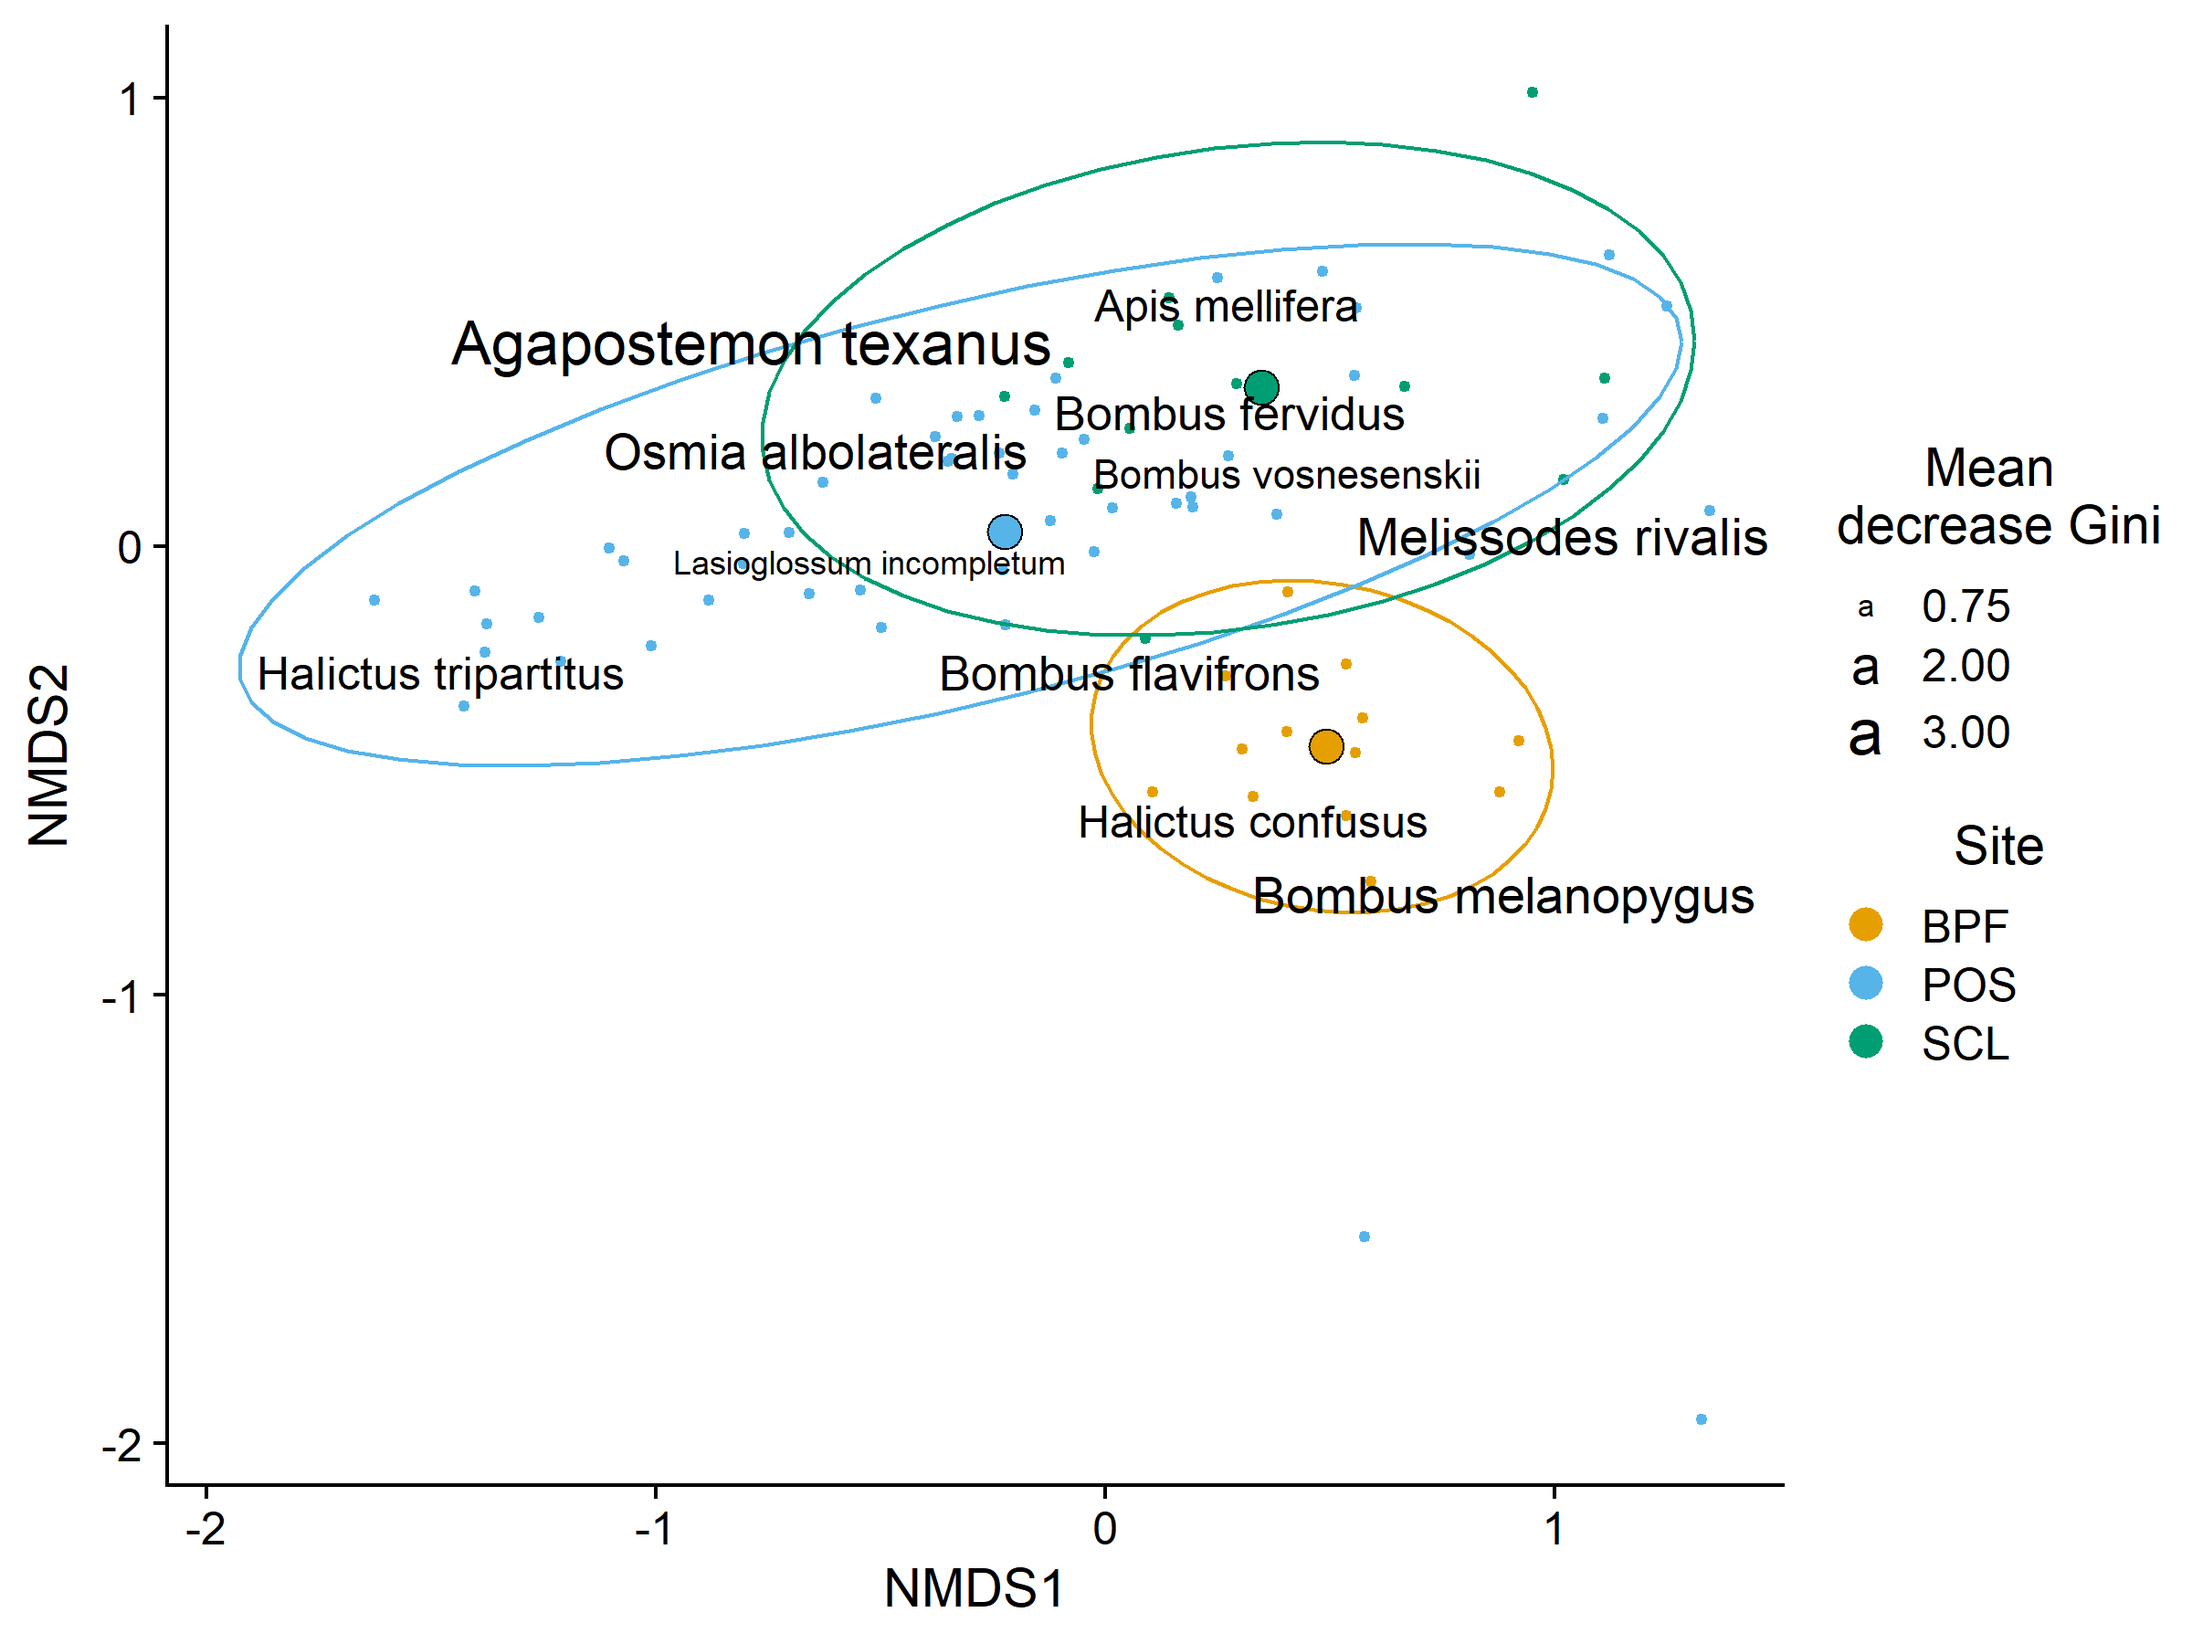
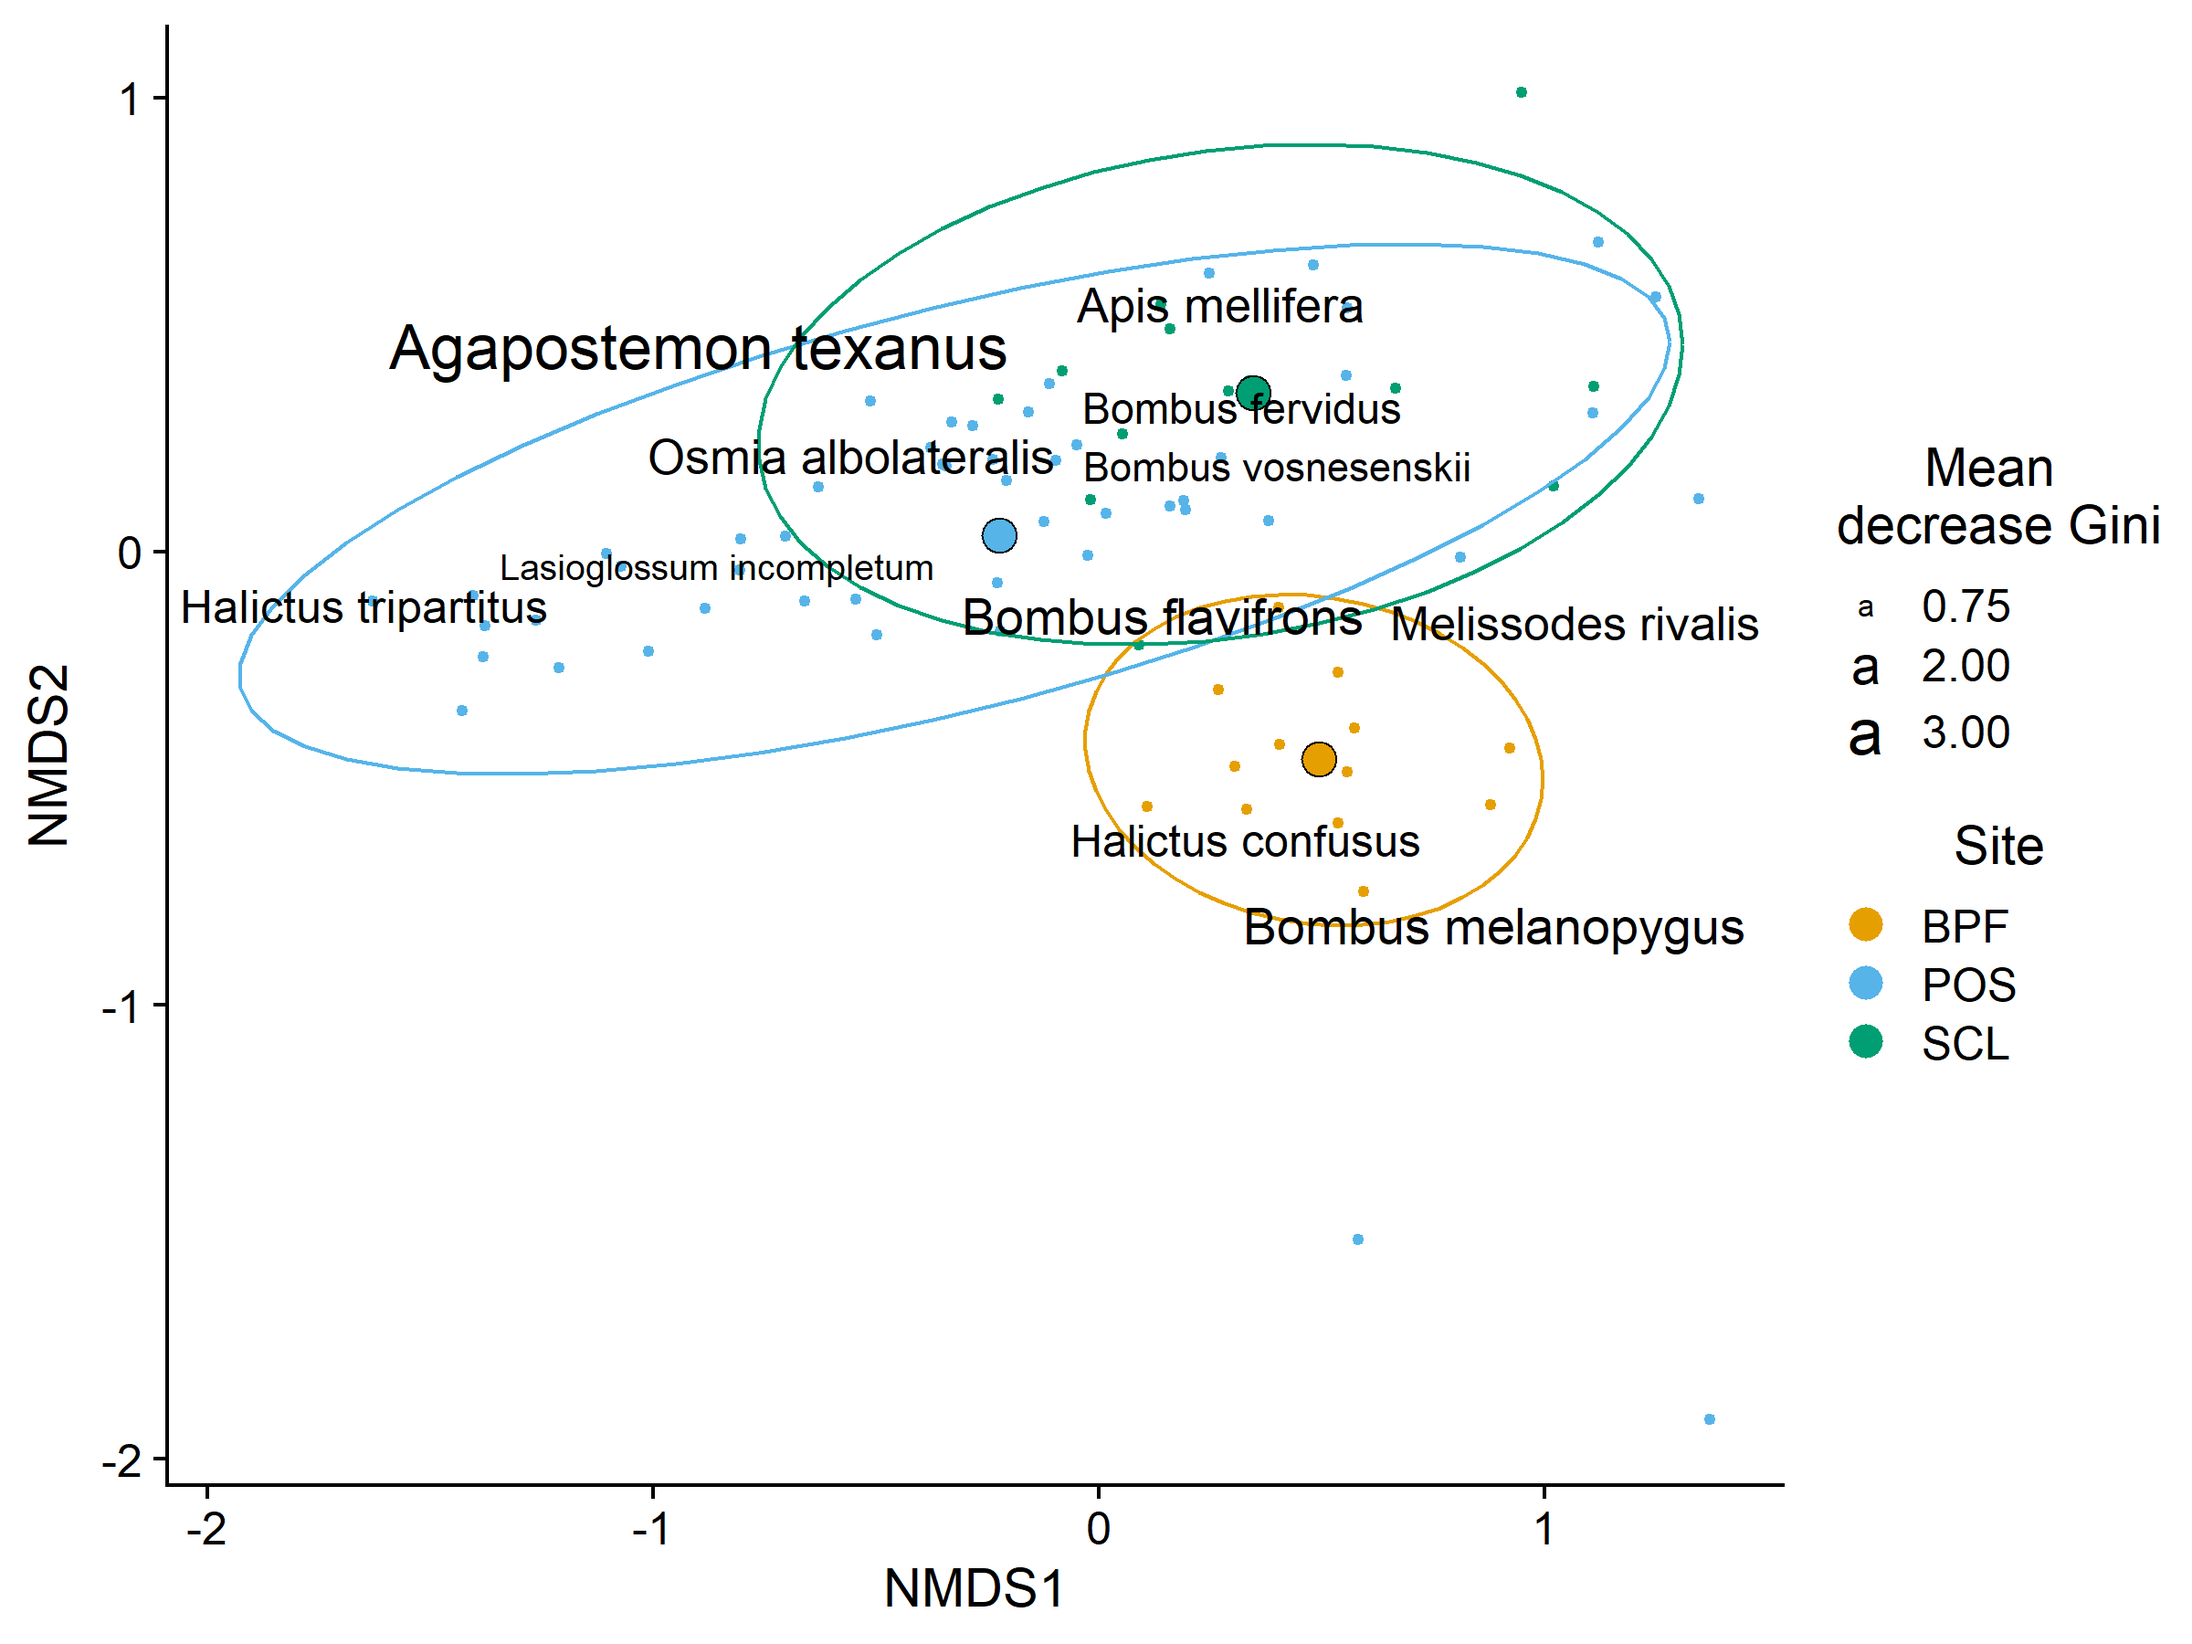
added a table for important NMDS species

diff --git a/analyses/composition_analyses.md b/analyses/composition_analyses.md
@@ -1,7 +1,7 @@
 BeeSearch Multivariate Analyses
 ================
 Dr. Riley M. Anderson
-December 09, 2024
+December 10, 2024
 
   
 
@@ -31,9 +31,9 @@ What is this analysis about?
     ## 
     ## adonis2(formula = site_matrix ~ Site * Year, data = site_meta, method = "bray")
     ##           Df SumOfSqs      R2      F Pr(>F)   
-    ## Site       2   1.0050 0.05314 2.1105  0.006 **
-    ## Year       1   0.4331 0.02290 1.8188  0.075 . 
-    ## Site:Year  2   0.3298 0.01744 0.6926  0.809   
+    ## Site       2   1.0050 0.05314 2.1105  0.008 **
+    ## Year       1   0.4331 0.02290 1.8188  0.081 . 
+    ## Site:Year  2   0.3298 0.01744 0.6926  0.820   
     ## Residual  72  17.1432 0.90652                 
     ## Total     77  18.9111 1.00000                 
     ## ---
@@ -45,7 +45,7 @@ What is this analysis about?
     ## 
     ## Response: Distances
     ##           Df  Sum Sq  Mean Sq      F N.Perm Pr(>F)
-    ## Groups     6 0.13306 0.022176 1.5361    999  0.171
+    ## Groups     6 0.13306 0.022176 1.5361    999  0.183
     ## Residuals 71 1.02498 0.014436
     ## 
     ## Permutation test for homogeneity of multivariate dispersions
@@ -54,7 +54,7 @@ What is this analysis about?
     ## 
     ## Response: Distances
     ##           Df  Sum Sq  Mean Sq      F N.Perm Pr(>F)   
-    ## Groups     2 0.18685 0.093426 6.8005    999  0.004 **
+    ## Groups     2 0.18685 0.093426 6.8005    999  0.003 **
     ## Residuals 75 1.03036 0.013738                        
     ## ---
     ## Signif. codes:  0 '***' 0.001 '**' 0.01 '*' 0.05 '.' 0.1 ' ' 1
@@ -73,9 +73,9 @@ What is this analysis about?
     ## Resampling results across tuning parameters:
     ## 
     ##   mtry  Accuracy   Kappa    
-    ##     2   0.7229644  0.2671388
-    ##    55   0.8275113  0.6340112
-    ##   108   0.7948119  0.5768530
+    ##     2   0.6923958  0.1828966
+    ##    55   0.8299202  0.6348494
+    ##   108   0.8073789  0.5953123
     ## 
     ## Accuracy was used to select the optimal model using the largest value.
     ## The final value used for the model was mtry = 55.
@@ -86,33 +86,26 @@ What is this analysis about?
     ##                      Number of trees: 500
     ## No. of variables tried at each split: 55
     ## 
-    ##         OOB estimate of  error rate: 15.38%
+    ##         OOB estimate of  error rate: 14.1%
     ## Confusion matrix:
     ##     BPF POS SCL class.error
-    ## BPF  13   1   0  0.07142857
-    ## POS   2  48   1  0.05882353
-    ## SCL   0   8   5  0.61538462
+    ## BPF  12   2   0  0.14285714
+    ## POS   1  49   1  0.03921569
+    ## SCL   0   7   6  0.53846154
 
-|                          |    BPF |    POS |    SCL | MeanDecreaseAccuracy | MeanDecreaseGini |
-|:-------------------------|-------:|-------:|-------:|---------------------:|-----------------:|
-| Halictus tripartitus     |  8.534 | 12.413 |  3.964 |               13.345 |            3.562 |
-| Agapostemon texanus      | 10.107 |  8.470 | -0.027 |               10.786 |            2.603 |
-| Melissodes rivalis       |  1.665 |  7.682 |  1.279 |                7.984 |            1.886 |
-| Bombus melanopygus       |  8.665 |  2.562 |  2.745 |                8.081 |            1.827 |
-| Osmia albolateralis      |  5.614 |  6.701 |  3.748 |                8.405 |            1.689 |
-| Bombus flavifrons        |  6.294 |  6.559 |  6.689 |                9.181 |            1.664 |
-| Bombus fervidus          |  7.950 |  6.433 |  0.092 |                8.418 |            1.616 |
-| Halictus confusus        |  8.295 |  1.645 |  4.043 |                7.319 |            1.437 |
-| Apis mellifera           |  7.814 |  2.289 |  4.892 |                7.847 |            1.397 |
-| Bombus vosnesenskii      |  3.362 |  6.426 |  0.687 |                6.755 |            1.161 |
-| Lasioglossum incompletum |  4.464 |  1.163 |  1.531 |                4.138 |            0.834 |
-
-    ## # A tibble: 3 × 2
-    ##   Site   mean
-    ##   <fct> <dbl>
-    ## 1 BPF     2  
-    ## 2 POS    44.5
-    ## 3 SCL    21.2
+|                          |    BPF |    POS |   SCL | MeanDecreaseAccuracy | MeanDecreaseGini |
+|:-------------------------|-------:|-------:|------:|---------------------:|-----------------:|
+| Halictus tripartitus     |  8.342 | 11.734 | 5.702 |               12.930 |            3.439 |
+| Agapostemon texanus      | 10.306 |  8.460 | 0.523 |               10.848 |            2.756 |
+| Bombus melanopygus       |  8.207 |  4.355 | 3.057 |                8.658 |            1.796 |
+| Bombus flavifrons        |  6.449 |  6.395 | 6.791 |                9.811 |            1.783 |
+| Osmia albolateralis      |  6.433 |  6.085 | 3.078 |                7.938 |            1.645 |
+| Apis mellifera           |  7.592 |  4.177 | 2.978 |                7.618 |            1.623 |
+| Melissodes rivalis       |  2.279 |  7.759 | 2.792 |                7.533 |            1.607 |
+| Halictus confusus        |  8.542 |  1.890 | 2.859 |                7.621 |            1.408 |
+| Bombus fervidus          |  7.137 |  5.336 | 0.904 |                6.884 |            1.307 |
+| Bombus vosnesenskii      |  2.185 |  6.720 | 0.486 |                6.572 |            1.160 |
+| Lasioglossum incompletum |  4.572 |  1.803 | 1.720 |                4.252 |            0.925 |
 
 ![](composition_analyses_files/figure-gfm/random_forest_sites-1.png)<!-- -->
 
@@ -144,6 +137,19 @@ centroids. Bees species shown are the most representative (top 10th
 percentile of a random forest analysis) of the compositional differences
 among sites. Text size of the labels is proportional to variable
 importance score (mean decrease in Gini score).
+
+| Species              | BPF |   POS | SCL | MeanDecreaseAccuracy | MeanDecreaseGini |
+|:---------------------|----:|------:|----:|---------------------:|-----------------:|
+| Halictus tripartitus |  38 | 11603 | 146 |               12.930 |            3.439 |
+| Agapostemon texanus  |  24 |  2269 | 275 |               10.848 |            2.756 |
+| Bombus melanopygus   |  89 |    23 |   2 |                8.658 |            1.796 |
+| Osmia albolateralis  |   2 |   204 |   9 |                7.938 |            1.645 |
+| Apis mellifera       |   8 |   444 | 123 |                7.618 |            1.623 |
+| Melissodes rivalis   |  32 |    17 |  28 |                7.533 |            1.607 |
+| Halictus confusus    |  97 |   108 |   3 |                7.621 |            1.408 |
+| Bombus fervidus      |   9 |   196 |  51 |                6.884 |            1.307 |
+| Bombus vosnesenskii  | 248 |  1556 | 344 |                6.572 |            1.160 |
+| Bombus mixtus        | 135 |   433 |  51 |                   NA |               NA |
 
 ## Session Information
 
